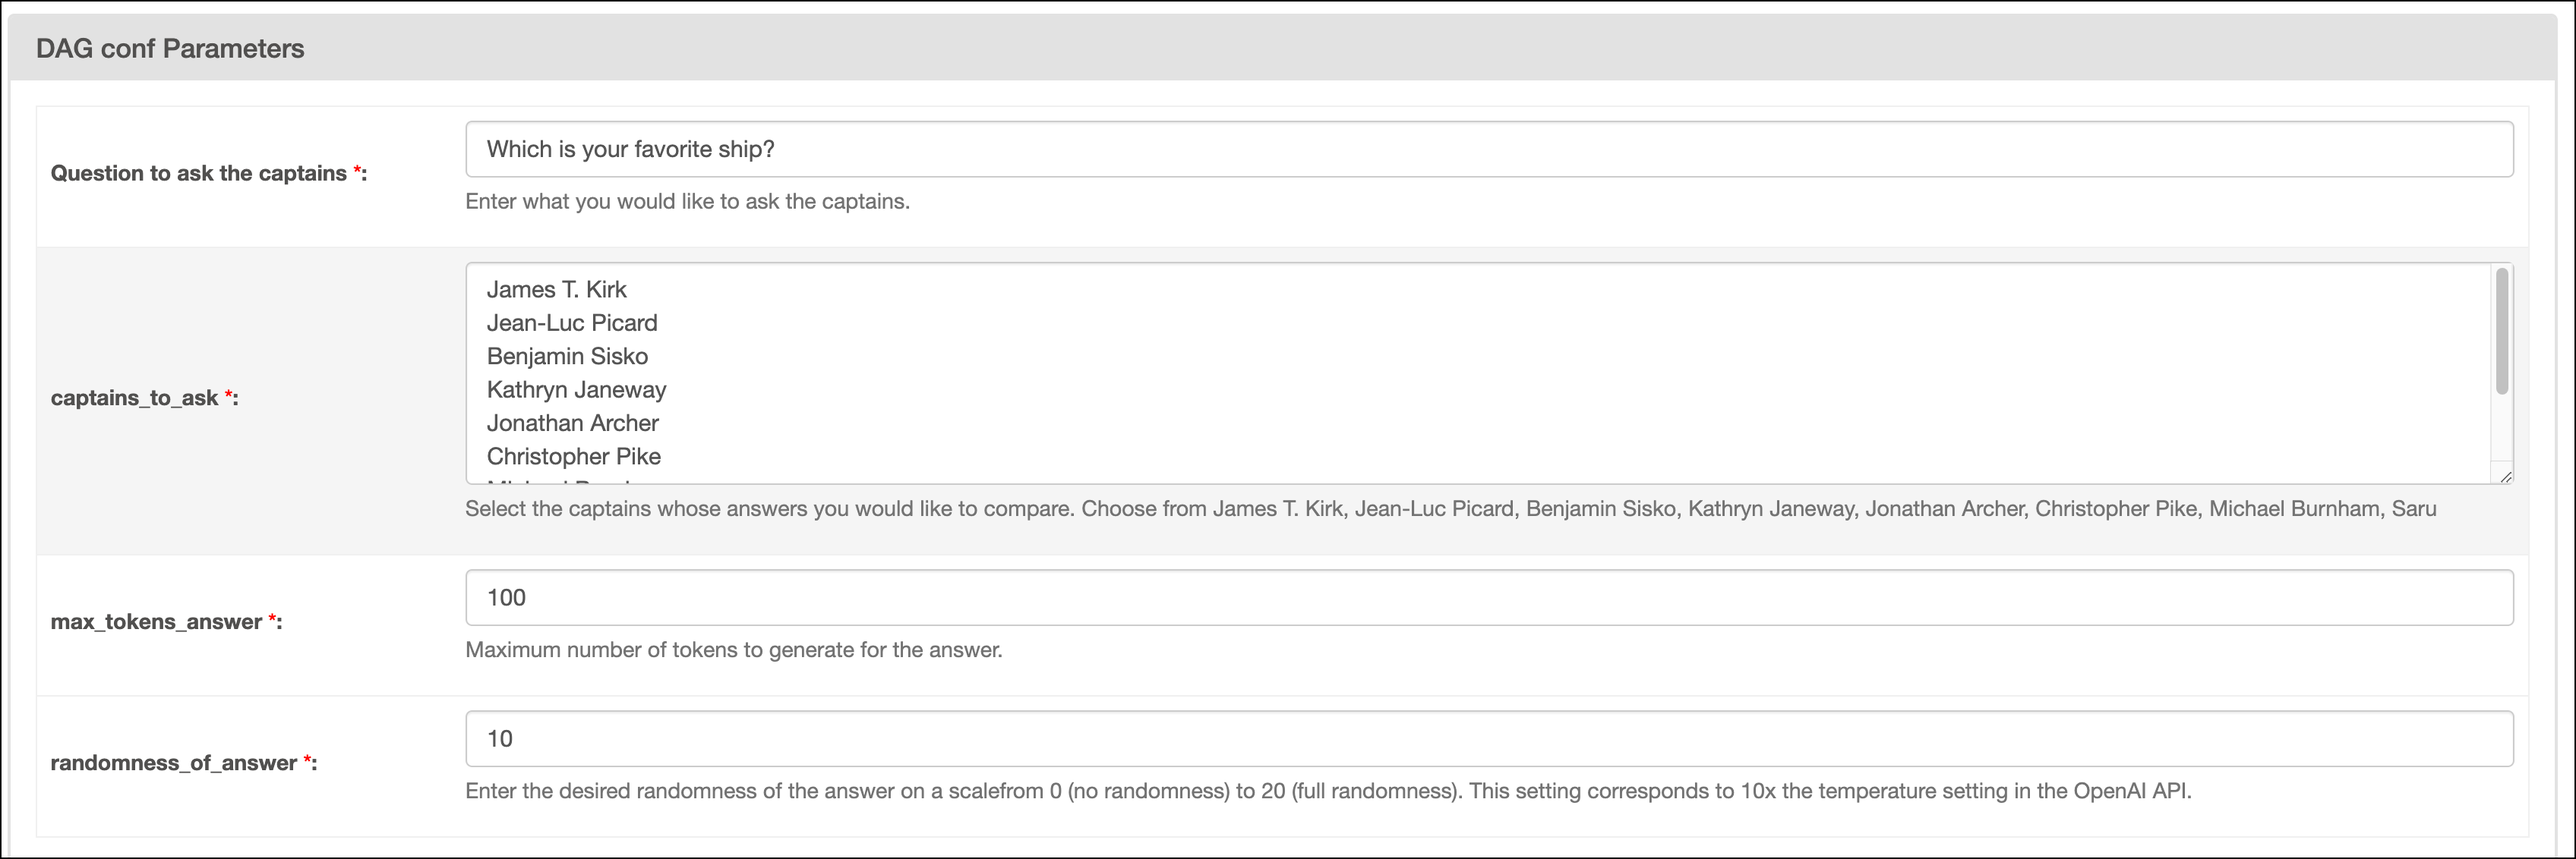
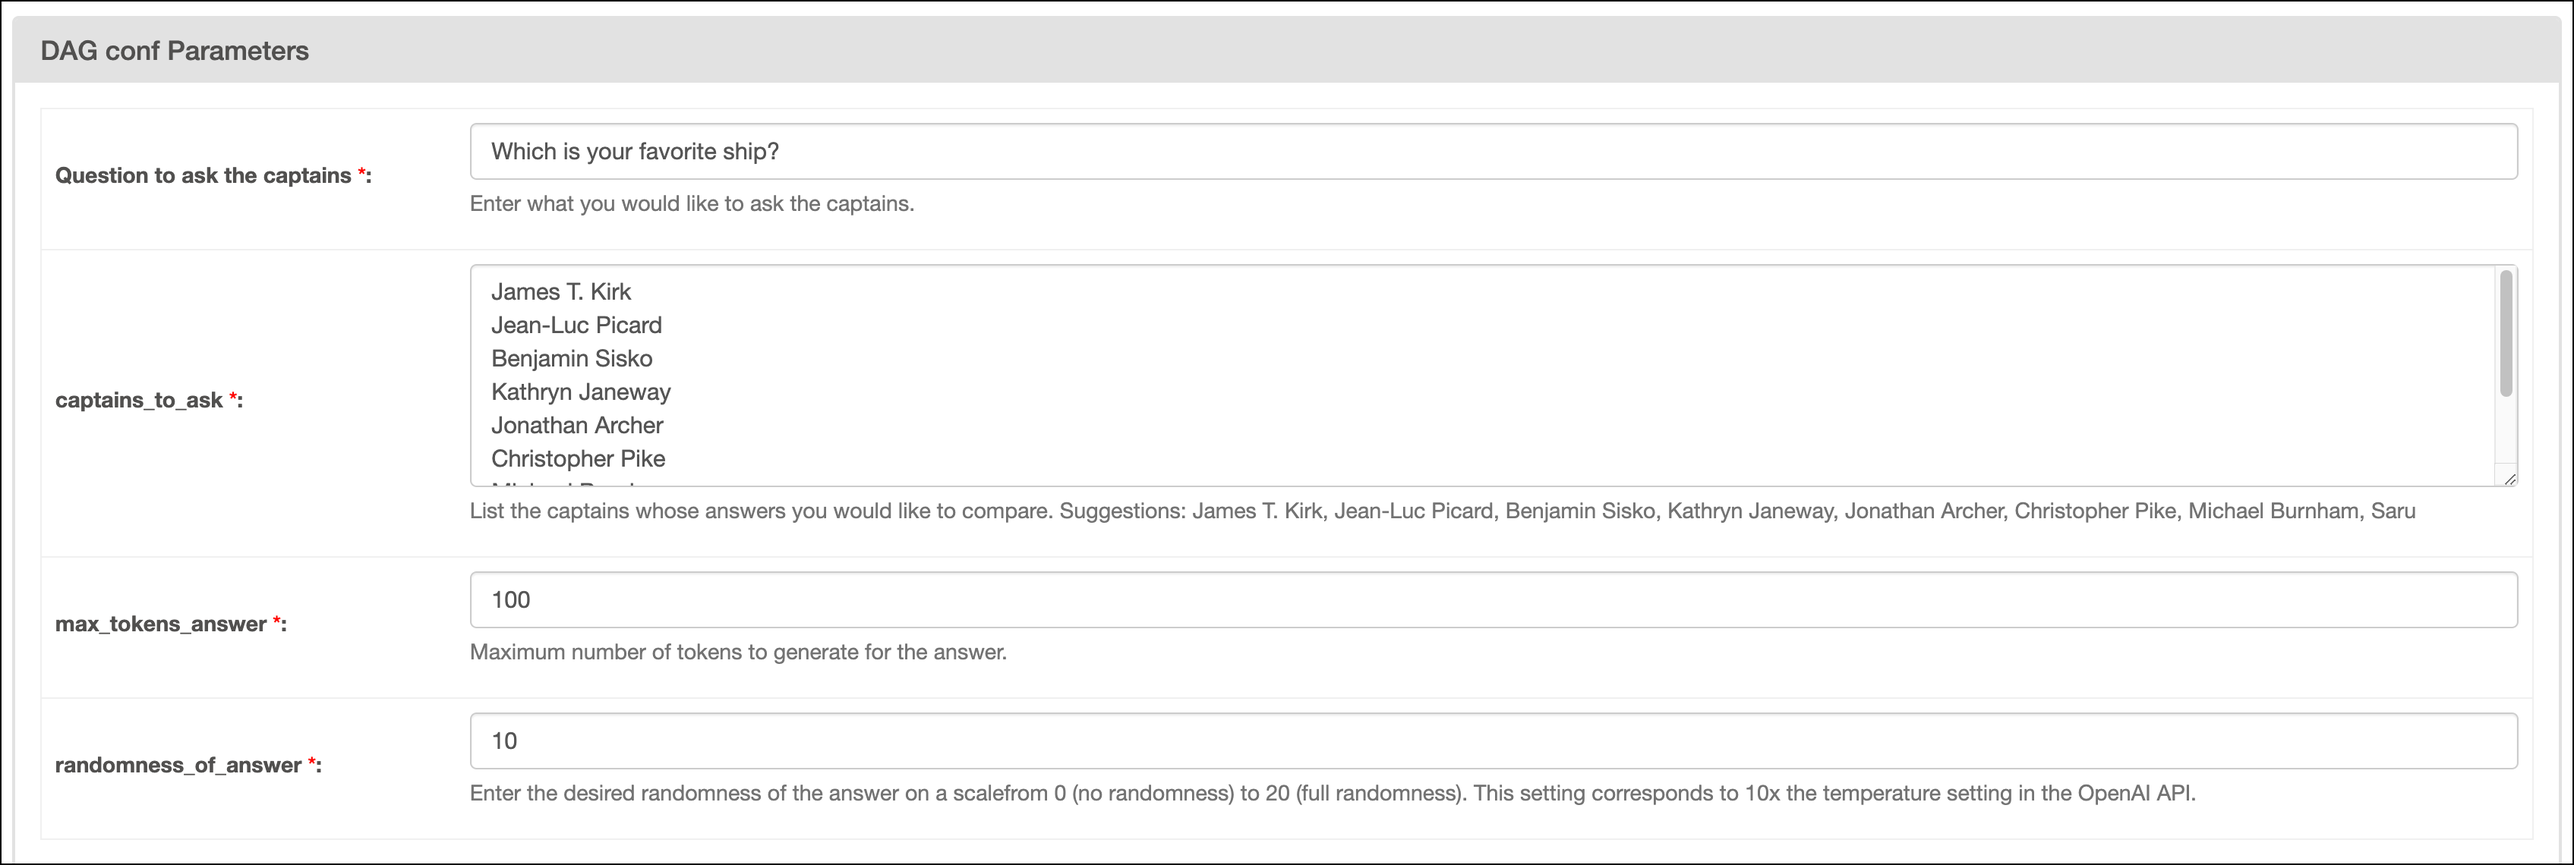
review edits part 2

diff --git a/code-samples/dags/airflow-openai/captains_dag.py b/code-samples/dags/airflow-openai/captains_dag.py
@@ -54,8 +54,8 @@ star_trek_captains_list = [
         "captains_to_ask": Param(
             star_trek_captains_list,
             type="array",
-            description="Select the captains whose answers you would like to compare. "
-            + "Choose from "
+            description="List the captains whose answers you would like to compare. "
+            + "Suggestions: "
             + ", ".join(star_trek_captains_list),
         ),
         "max_tokens_answer": Param(

diff --git a/learn/airflow-openai.md b/learn/airflow-openai.md
@@ -11,7 +11,7 @@ import captains_dag from '!!raw-loader!../code-samples/dags/airflow-openai/capta
 
 [OpenAI](https://openai.com/) is an AI research and deployment company that provides an API for accessing state of the art models like [GPT-4](https://openai.com/gpt-4) and [DALL·E 3](https://openai.com/dall-e-3). The [OpenAI Airflow provider](https://airflow.apache.org/docs/apache-airflow-providers-openai/stable/index.html) offers modules to easily integrate OpenAI with Airflow.
 
-In this tutorial you'll use Airflow and the OpenAI Airflow provider to generate the answer to any question you want, create embeddings of the answers, and plot them in two dimensions. 
+In this tutorial you'll use Airflow and the OpenAI Airflow provider to generate answers to any question you want to ask Star Trek captains, create embeddings of the answers, and plot them in two dimensions. 
 
 ## Why use Airflow with OpenAI?
 
@@ -21,7 +21,7 @@ Integrating OpenAI with Airflow into an end-to-end machine learning pipeline all
 
 - Use Airflow's [data-driven scheduling](airflow-datasets.md) to run operations using OpenAI model endpoints based on upstream events in your data ecosystem, such as when new user input is ingested or a new dataset is available.
 - Send several requests to a model endpoint in parallel based on upstream events in your data ecosystem or user input via [Airflow params](airflow-params.md).
-- Monitor and manage OpenAI service using Airflow [retries](rerunning-dags.md#automatically-retry-tasks) and [alerts](error-notifications-in-airflow.md).
+- Monitor the OpenAI service using Airflow [alerts](error-notifications-in-airflow.md) and protect against API rate limits and outages with [Airflow retries](rerunning-dags.md#automatically-retry-tasks).
 - Use Airflow to orchestrate the creation of vector embeddings using OpenAI models, which is especially useful for large datasets that can't be processed automatically by vector databases.
 
 ## Time to complete
@@ -83,12 +83,12 @@ To get the most out of this tutorial, make sure you have an understanding of:
 
     This DAG consists of four tasks to make a simple MLOps pipeline.
 
-    ![Screenshot of the Airflow UI showing the successful completion of the `captains_dag` DAG in the Grid view with the Graph tab selected. All 8 captains available were selected to be asked the question, which led to 8 mapped task instances of both the `ask_a_captain` and `get_embeddings` task.](/img/tutorials/airflow-openai_dag_completed.png)
-
-    - The `get_captains_list` task fetches the list of Star Trek captains you want to ask your question to. You'll provide the list of captains when you run the DAG through [Airflow params](airflow-params.md).
-    - The `ask_a_captain` task uses the [OpenAIHook](https://airflow.apache.org/docs/apache-airflow-providers-openai/stable/_api/airflow/providers/openai/hooks/openai/index.html) to connect to the OpenAI API. It then uses the [chat completion endpoint](https://platform.openai.com/docs/guides/text-generation/chat-completions-api) generate answers to the question you provide. This task is [dynamically mapped](dynamic-tasks.md) over the list of captains to generate one dynamically mapped task instance per captain.
+    - The `get_captains_list` task fetches the list of Star Trek captains you want to ask your question to. You'll provide the list of captains when you run the DAG with [Airflow params](airflow-params.md).
+    - The `ask_a_captain` task uses the [OpenAIHook](https://airflow.apache.org/docs/apache-airflow-providers-openai/stable/_api/airflow/providers/openai/hooks/openai/index.html) to connect to the OpenAI API. It then uses the [chat completion endpoint](https://platform.openai.com/docs/guides/text-generation/chat-completions-api) to generate answers to the question you provide. This task is [dynamically mapped](dynamic-tasks.md) over the list of captains to generate one dynamically mapped task instance per captain.
     - The `get_embeddings` task is defined using the [OpenAIEmbeddingOperator](https://airflow.apache.org/docs/apache-airflow-providers-openai/stable/operators/openai.html) to generate vector embeddings of the answers generated by the upstream `ask_a_captain` task. This task is dynamically mapped over the list of answers to retrieve one set of embeddings per answer. This pattern allows for efficient parallelization of the vector embedding generation.
     - The `plot_embeddings` task takes the embeddings created by the upstream task and performs dimensionality reduction using [PCA](https://scikit-learn.org/stable/modules/generated/sklearn.decomposition.PCA.html) to plot the embeddings in two dimensions. 
+
+    ![Screenshot of the Airflow UI showing the successful completion of the `captains_dag` DAG in the Grid view with the Graph tab selected. All 8 captains available were selected to be asked the question, which led to 8 mapped task instances of both the `ask_a_captain` and `get_embeddings` task.](/img/tutorials/airflow-openai_dag_completed.png)
 
 ## Step 3: Run your DAG
 
@@ -109,5 +109,5 @@ To get the most out of this tutorial, make sure you have an understanding of:
 
 ## Conclusion
 
-Congratulations! You used Airflow and OpenAI to get answers from your favorite Star Trek captains and compare them visually. You can now use Airflow to orchestrate OpenAI operations in your own machine learning pipelines.
+Congratulations! You used Airflow and OpenAI to get answers from your favorite Star Trek captains and compare them visually. You can now use Airflow to orchestrate OpenAI operations in your own machine learning pipelines. :vulcan_salute:
 
